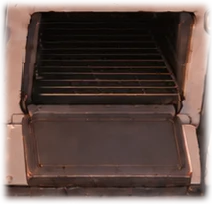
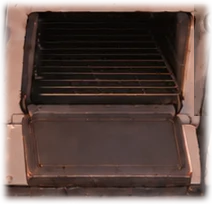
Rerna: vracen beli okvir desno od otvora
Claude-Session: https://claude.ai/code/session_01GMM3Rnq6i1o8tZEuJzXhvg

diff --git a/index.html b/index.html
@@ -36,7 +36,7 @@
 </filter>
 </defs>
 </svg>
-<div id="viewport"><div aria-hidden="true" id="sceneAmbient"></div><div id="scene"><div id="waterStream"></div><div id="waterSplash"></div><div id="tableOccluder"></div><div aria-hidden="true" id="sceneOcclusionLayer"><div aria-hidden="true" class="scene-occluder scene-occluder-left-leg" id="tableLegOccluderLeft"></div><div aria-hidden="true" class="scene-occluder scene-occluder-right-leg" id="tableLegOccluderRight"></div></div><div aria-hidden="true" id="fireTimerBar"><i></i></div><button aria-label="Vrata ložišta" class="stove-hotspot" id="fireboxHotspot"></button><img alt="" aria-hidden="true" draggable="false" id="ovenDoorOpen" src="assets/stove_states_v3/oven_door_open.webp?v=1"/><img alt="" aria-hidden="true" draggable="false" id="ovenDrawerOpen" src="assets/stove_states_v3/drawer_open.webp?v=1"/><button aria-label="Vrata rerne" class="stove-hotspot" id="ovenHotspot"></button><button aria-label="Fioka rerne" class="stove-hotspot" id="drawerHotspot"></button></div></div>
+<div id="viewport"><div aria-hidden="true" id="sceneAmbient"></div><div id="scene"><div id="waterStream"></div><div id="waterSplash"></div><div id="tableOccluder"></div><div aria-hidden="true" id="sceneOcclusionLayer"><div aria-hidden="true" class="scene-occluder scene-occluder-left-leg" id="tableLegOccluderLeft"></div><div aria-hidden="true" class="scene-occluder scene-occluder-right-leg" id="tableLegOccluderRight"></div></div><div aria-hidden="true" id="fireTimerBar"><i></i></div><button aria-label="Vrata ložišta" class="stove-hotspot" id="fireboxHotspot"></button><img alt="" aria-hidden="true" draggable="false" id="ovenDoorOpen" src="assets/stove_states_v3/oven_door_open.webp?v=2"/><img alt="" aria-hidden="true" draggable="false" id="ovenDrawerOpen" src="assets/stove_states_v3/drawer_open.webp?v=1"/><button aria-label="Vrata rerne" class="stove-hotspot" id="ovenHotspot"></button><button aria-label="Fioka rerne" class="stove-hotspot" id="drawerHotspot"></button></div></div>
 <button aria-label="Levo" class="edge-arrow left" id="leftArrow">‹</button>
 <button aria-label="Desno" class="edge-arrow right" id="rightArrow">›</button>
 <div id="cursor"></div><div id="label"></div>

diff --git a/NOTES.md b/NOTES.md
@@ -774,7 +774,8 @@ Kad serving.js nacrta sliku posude, sakriva staru masku prednjeg zida (ona je U-
 - Nije provereno: animacija (fioka se otvara odmah, bez prelaza), telefon, ubacivanje cepanice u ložište iz fioke u celom toku (samo uzimanje).
 
 ## Otvorena rerna (spuštena vrata) i vraćanje cepanica u fioku
-- Stara slika otvorene rerne (cela scena, sa vatrom u ložištu i vratima koja prekrivaju fioku) je obrisana (`oven_open.webp`). Nova je mali isečak (`assets/stove_states_v3/oven_door_open.webp`, 212×204) preko normalne kuhinje: vrata su spuštena prema gledaocu, svetli okvir oko vrata ostaje, a ložište i vatra se crtaju isto kao kad je rerna zatvorena. Unutrašnjost je sa stare slike (rešetke), a vrh otvora je pomeren 3 px udesno (u istoj tački spoja vrata ostaje na mestu).
+- Stara slika otvorene rerne (cela scena, sa vatrom u ložištu i vratima koja prekrivaju fioku) je obrisana (`oven_open.webp`). Nova je mali isečak (`assets/stove_states_v3/oven_door_open.webp`, 212×204) preko normalne kuhinje: vrata su spuštena prema gledaocu, svetli okvir oko vrata ostaje, a ložište i vatra se crtaju isto kao kad je rerna zatvorena. Unutrašnjost je sa stare slike (rešetke). Bela traka okvira desno od otvora (x 1586–1604) je sa stare kuhinje, da okvir ne nestane (pomeranje vrha udesno je probano, ali je prekrilo taj okvir pa je skinuto).
 - `syncOvenDoorPicture()`, `OVEN_DOOR_OPEN_RECT`; klik na spuštena vrata zatvara rernu. Otvaranje rerne zatvara fioku i obrnuto (vrata leže preko fioke).
 - Cepanica iz ruke se vraća u otvorenu fioku klikom na nju (`returnHeldLogToDrawer`); ako je fioka zatvorena: "Prvo otvori fioku." (`game.js?v=3.139`).
+- Napomena: otvorena vrata rerne i ložišta se ne pamte posle ponovnog učitavanja (i ranije nije bilo tako).
 - Nije provereno: animacija otvaranja (sve je odmah), telefon, dim/para sa rerne.
